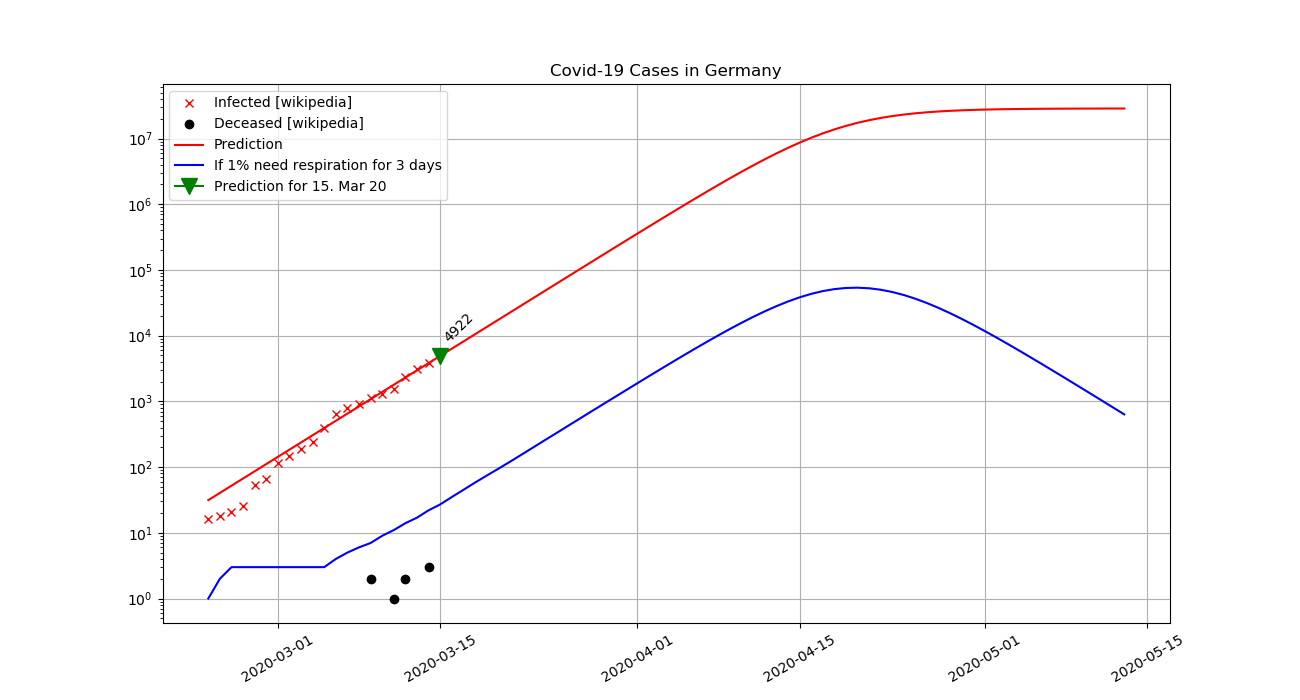
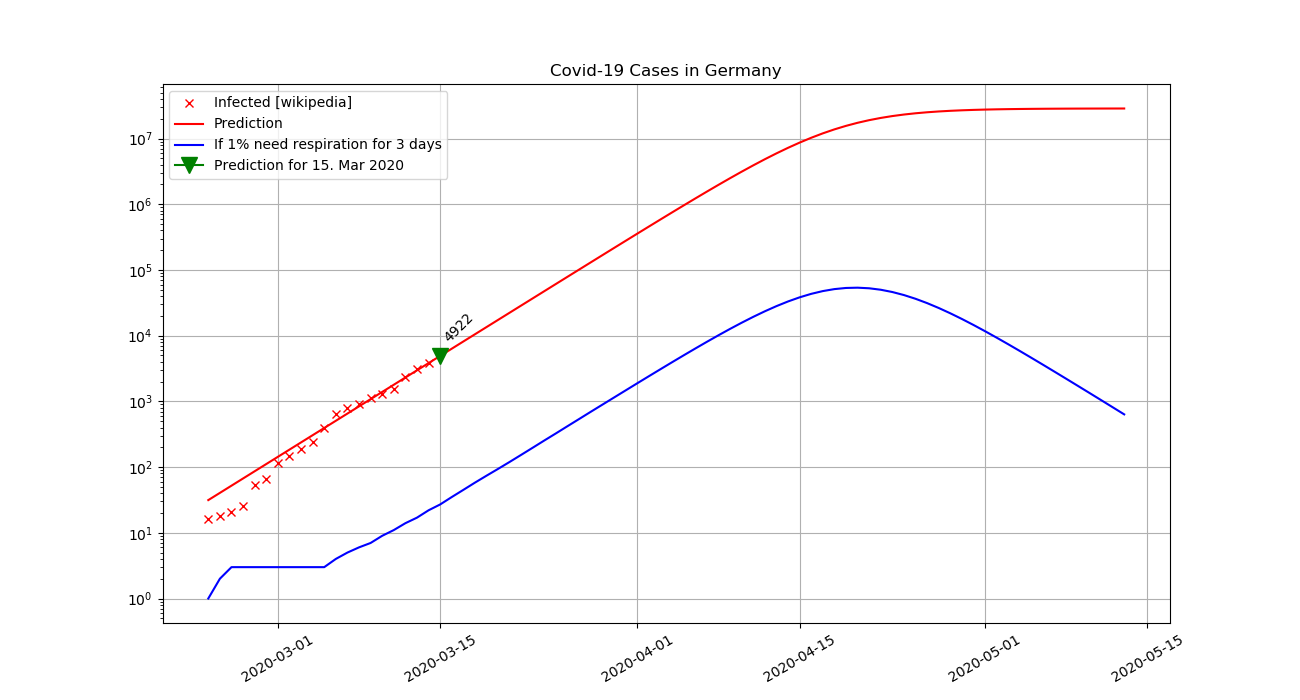
Update Disclaimer

Changed region(s): [[0.1231, 0.15, 0.3385, 0.3], [0.2769, 0.81, 0.3385, 0.87]]

diff --git a/coro.py b/coro.py
@@ -48,13 +48,13 @@ def get_plot(data, pred, safepath):
     PREDICTION = np.ceil(pred.loc[today]['Prediction'])
     _, ax = plt.subplots(figsize=(13,7))
     ax.plot(data.index, data['Infected'], marker='x', linestyle='', label='Infected [wikipedia]', color='red')
-    ax.plot(data.index, data['Deceased'], marker='o', linestyle='', label='Deceased [wikipedia]', color='black')
+#    ax.plot(data.index, data['Deceased'], marker='o', linestyle='', label='Deceased [wikipedia]', color='black')
     ax.plot(pred.index, pred['Prediction'], label='Prediction', color='red')
     ax.plot(pred.index, pred['Cumulated Care Prediction'],
             label='If %d%% need respiration for %d days' % (P_I, N_D), color='blue')
 #    ax.plot([pred.index[0], pred.index[-1]], [N_R, N_R], label='Number of respiratory beds in Germany')
     ax.plot(pd.to_datetime(today), PREDICTION, marker='v', color='green', markersize=12,
-            label='Prediction for %s' % (time.strftime('%d. %b %y')))
+            label='Prediction for %s' % (time.strftime('%d. %b %Y')))
     ax.annotate('%d' %(PREDICTION), (pd.to_datetime(today), PREDICTION),
                 textcoords="offset points", rotation=45,
                 xytext=(1, 10))
@@ -80,6 +80,10 @@ def write_index(safepath='index.html'):
 
 <p>I'm trying to predict the amount of hospital treatment needed to deal with the corona crisis in
 Germany, so that people understand, why this drastic measures are necessary.</p>
+I do not do this to stress you, but to <em>increase the understanding</em> for the drastic measures taken now 
+by the German goverment.
+
+<h2>Disclaimer</h2>
 
 <p>The numbers are from a wikipedia article <a href="https://de.wikipedia.org/wiki/COVID-19-Fälle_in_Deutschland">
 COVID-19 F&auml;lle in Deutschland</a>.
@@ -90,14 +94,30 @@ maximum value of 70%% of Germany. The idea to use a logistic curve came from thi
 Second step I estimate, that 1 %% of the people need intensive care for 3 days and sum up
 these cases.</p>
 
+<p>So as you may have guessed until now, the following plot isn't scientific from any point of view.
+It is just a curve fit with two parameters, and I'm even hiding the R<sup>2</sup> value.</p>
+
+<p>For more scientific data rely on:</p>
+<ul>
+<li><a href="https://www.rki.de/DE/Content/InfAZ/N/Neuartiges_Coronavirus/nCoV.html">Rober Koch Institut</a></li>
+<li><a href="https://gisanddata.maps.arcgis.com/apps/opsdashboard/index.html#/bda7594740fd40299423467b48e9ecf6">Johns Hopkins University</a></li>
+<li><a href="https://www.worldometers.info/coronavirus/country/germany/">Worldometer.info</a></li>
+</ul>
+<p>They are better in every aspect, except they don't try to predict the epidemic curve.</p>
+
 <h2>Contribute</h2>
 <ul>
 <li>Feel free to comment or contribute. I would like to access the data from some online source and 
 not from my offline csv file.</li>
 <li>Is there a source for the amount of people in intensive care? 1%% and 3 days is just a guess.</li>
+</ul>
 
 <img width=90%% height=auto src="%s" alt="Logistic curve of corona virus progression">
 
+<blockquote>
+<p><em>Remember:</em> All models are wrong.
+(<a href="https://en.wikipedia.org/wiki/All_models_are_wrong">George Box</a>)</p>
+</blockquote>
 <h2>Impressum</h2>
 <p>Verantwortlich f&uuml;r den Inhalt dieser Seite:</p>
 Grzegorz Lippe<br/>
@@ -106,6 +126,10 @@ Eugen-Hafner-Str. 10<br/>
 
 <p>E-Mail: <a href="mailto:Grzegorz.Lippe@googlemail.com?subject=schorschie.github.io">Grzegorz.Lippe@googlemail.com</a></p>
 
+<h3>Resources</h3>
+
+<p>This site is hosted by github. I used python with pandas, numpy, matplotlib, statmodels and scipy for the commputation.
+Output ist html and png.</p>
 </body>
 </html>
 """ % (time.strftime('%y%m%d_corona.png'))
